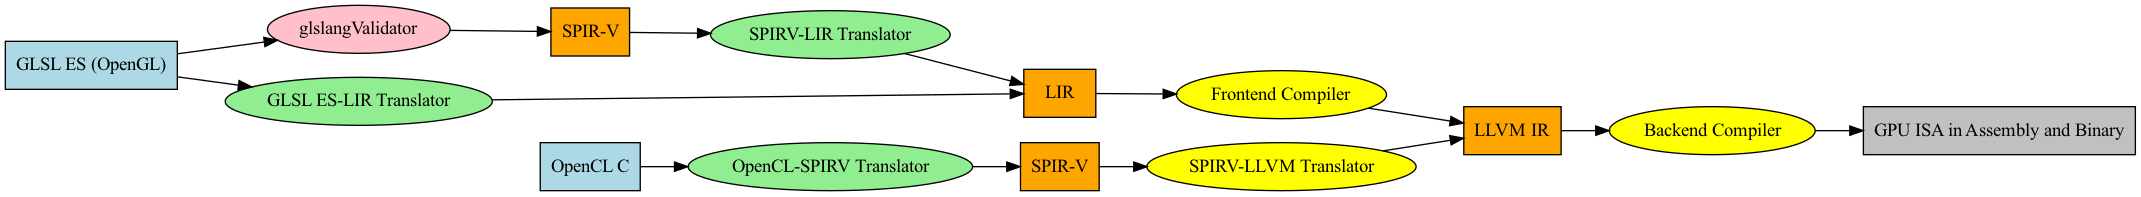
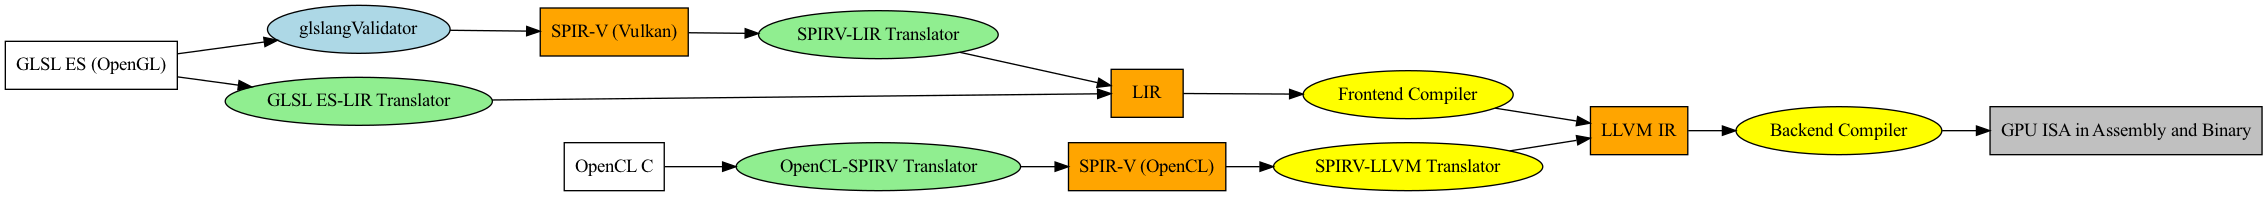
Generated gh-pages for commit 6563a73 Author: ChungShu <gamma_chen@yahoo.com.tw>
cv_cschen.html

diff --git a/en/cv_cschen.html b/en/cv_cschen.html
@@ -189,6 +189,18 @@ canvas {
       </div>
 
       <div class="sectionTitle">
+        <h1>Mediatek</h1>
+      </div>
+      <div class="sectionContent">
+        <article>
+          <p>Graphics GPU Compiler:</p>
+          <p>Optimations in loop unrolling and subgroup operations.</p>
+          <p>Implement MTK-specific instruction encoding, assembler and disassembler based on LLVM.</p>
+          <p>Developed custom assembler and disassembler features to support the Verification and Modeling teams.</p>
+        </article>
+      </div>
+
+      <div class="sectionTitle">
         <h1>Lightelligence</h1>
       </div>
       <div class="sectionContent">

diff --git a/ch2/cv_cschen.html b/ch2/cv_cschen.html
@@ -180,6 +180,20 @@ canvas {
       <div class="sectionTitle">
         <h1>工作贡献</h1>
       </div>
+
+      <div class="sectionTitle">
+        <h1>联发科</h1>
+      </div>
+
+      <div class="sectionContent">
+        <article>
+          <p>图形 GPU 编译器：</p>
+          <p>在循环展开和子组操作中的优化。</p>
+          <p>基于 LLVM 实现 MTK 特定的指令编码、汇编器和反汇编器。</p>
+          <p>开发了自定义的汇编器和反汇编器功能，以支持验证和建模团队。</p>
+        </article>
+      </div>
+
       <div class="sectionTitle">
         <h1>Lightelligence</h1>
       </div>

diff --git a/ch1/cv_cschen.html b/ch1/cv_cschen.html
@@ -173,6 +173,19 @@ canvas {
       <div class="sectionTitle">
         <h1>工作貢獻</h1>
       </div>
+
+      <div class="sectionTitle">
+        <h1>聯發科</h1>
+      </div>
+      <div class="sectionContent">
+        <article>
+          <p>圖形 GPU 編譯器：</p>
+          <p>在迴圈展開與子群操作中的最佳化。</p>
+          <p>基於 LLVM 實作 MTK 特定的指令編碼、組譯器與反組譯器。</p>
+          <p>開發了自訂的組譯器與反組譯器功能，以支援驗證與建模團隊。</p>
+        </article>
+      </div>
+
       <div class="sectionTitle">
         <h1>Lightelligence</h1>
       </div>
